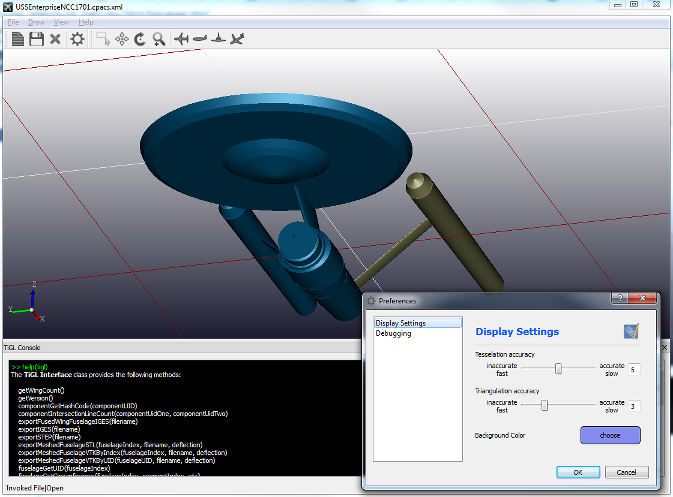
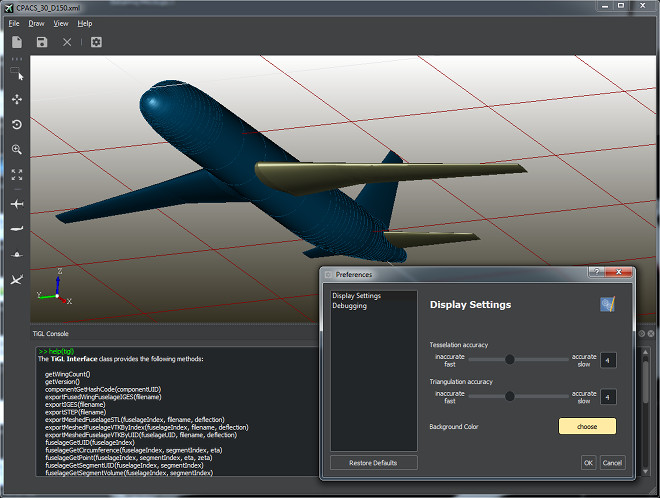
Exchanged screenshot with newer one

diff --git a/doc/tiglviewer.md b/doc/tiglviewer.md
@@ -4,8 +4,8 @@ The TiGL Viewer {#tiglviewer}
 The TiGL Viewer is a 3D viewer for CPACS geometries. In addition, it also allows opening standard CAD file formats like IGES, STEP and BREP.
 Historically, TiGL Viewer was created as a TiGL debugging tool to visualize the modeled geometries.
 
-@image html images/tiglviewer-web.jpg "The TiGL Viewer showing a CPACS model of the Enterprise NCC 1701"
-@image latex images/tiglviewer.png  "The TiGL Viewer showing a CPACS model of the Enterprise NCC 1701" width=8cm
+@image html images/tiglviewer-web.jpg "The TiGL Viewer showing a CPACS model of the D 150 aircraft"
+@image latex images/tiglviewer.png  "The TiGL Viewer showing a CPACS model of the D 150 aircraft" width=8cm
 
 __Features of TiGL Viewer__
 
